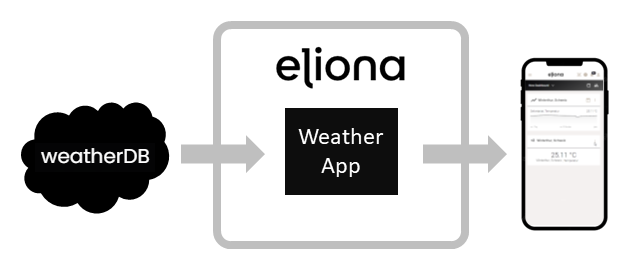
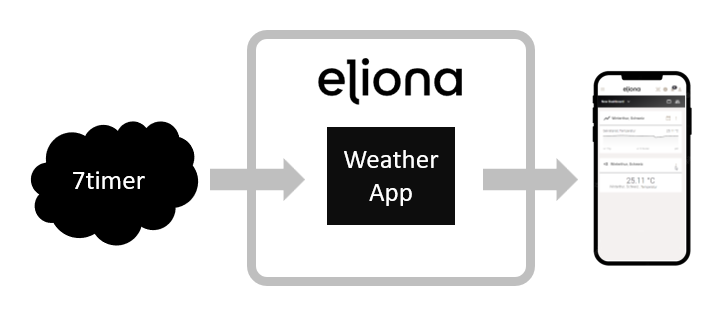
migrate to 7timer!

diff --git a/api/api.go b/api/api.go
@@ -19,8 +19,6 @@ import (
 	"encoding/json"
 	"fmt"
 	"github.com/eliona-smart-building-assistant/go-eliona/http"
-	"strconv"
-	"strings"
 	"time"
 	"weather/conf"
 )
@@ -36,7 +34,7 @@ type Conditions struct {
 }
 
 // Today returns the current weather conditions for the given latitude and longitude.
-func Today(location string) (Conditions, error) {
+func Today(location conf.Location) (Conditions, error) {
 	var conditions Conditions
 
 	// Request the API to get current conditions conditions
@@ -53,18 +51,17 @@ func Today(location string) (Conditions, error) {
 	if ok && status == "fail" {
 		return conditions, fmt.Errorf("error requesting api %s: %s", url, result["message"].(string))
 	}
-	conditions.Temperature, _ = result["currentConditions"].(map[string]interface{})["temp"].(map[string]interface{})["c"].(float64)
-	conditions.Precipitation, _ = strconv.Atoi(strings.Replace(result["currentConditions"].(map[string]interface{})["precip"].(string), "%", "", -1))
-	conditions.Humidity, _ = strconv.Atoi(strings.Replace(result["currentConditions"].(map[string]interface{})["humidity"].(string), "%", "", -1))
-	conditions.Wind, _ = result["currentConditions"].(map[string]interface{})["wind"].(map[string]interface{})["km"].(float64)
-	conditions.Comment, _ = result["currentConditions"].(map[string]interface{})["comment"].(string)
-	conditions.Daytime, _ = result["currentConditions"].(map[string]interface{})["dayhour"].(string)
+	conditions.Temperature, _ = result["dataseries"].([]interface{})[0].(map[string]interface{})["temp2m"].(map[string]interface{})["max"].(float64)
+	conditions.Wind, _ = result["dataseries"].([]interface{})[0].(map[string]interface{})["wind10m_max"].(float64)
+	conditions.Comment, _ = result["dataseries"].([]interface{})[0].(map[string]interface{})["weather"].(string)
+	date, _ := result["dataseries"].([]interface{})[0].(map[string]interface{})["date"].(float64)
+	conditions.Daytime = fmt.Sprintf("%0.0f", date)
 	return conditions, nil
 }
 
 // request calls the api to get structured weather data
-func request(location string) (string, []byte, error) {
-	url := fmt.Sprintf(conf.Endpoint()+"%s", location)
+func request(location conf.Location) (string, []byte, error) {
+	url := fmt.Sprintf(conf.Endpoint()+"&lon=%f&lat=%f", location.Longitude, location.Latitude)
 	request, err := http.NewRequest(url)
 	if err != nil {
 		return url, nil, err

diff --git a/conf/conf.go b/conf/conf.go
@@ -22,13 +22,15 @@ import (
 )
 
 type Location struct {
-	Location string
-	AssetId  int
+	Location  string
+	AssetId   int
+	Latitude  float64
+	Longitude float64
 }
 
 // ReadLocations reads all configured weather locations and send each location to the given channel
 func ReadLocations(locations chan Location) error {
-	return db.Query(db.Pool(), "select location, asset_id from weather.locations", locations)
+	return db.Query(db.Pool(), "select locations.location, locations.asset_id, lat, lon from weather.locations join public.asset using (asset_id)", locations)
 }
 
 // PollingInterval returns the interval polling the weather api
@@ -39,7 +41,7 @@ func PollingInterval() time.Duration {
 
 // Endpoint returns the configured API endpoint to get weather data.
 func Endpoint() string {
-	return get("endpoint", "https://weatherdbi.herokuapp.com/data/weather/")
+	return get("endpoint", "https://www.7timer.info/bin/civillight.php?ac=0&unit=metric&output=json&tzshift=0")
 }
 
 // Value returns the configuration string referenced by key. The configuration is stored in the init
@@ -62,7 +64,7 @@ func Set(name string, value string) error {
 }
 
 func InitConfiguration(connection db.Connection) error {
-	err := Set("endpoint", "https://weatherdbi.herokuapp.com/data/weather/")
+	err := Set("endpoint", "https://www.7timer.info/bin/civillight.php?ac=0&unit=metric&output=json&tzshift=0")
 	if err != nil {
 		return err
 	}

diff --git a/weather/assets.go b/weather/assets.go
@@ -46,9 +46,9 @@ type Status struct {
 func InitAssetType(connection db.Connection) error {
 	err := assets.UpsertAssetType(connection, assets.AssetType{
 		Name:             "weather_location",
-		Vendor:           "weatherDB by Dron Bhattacharya & Rituraj Datta",
+		Vendor:           "7Timer!",
 		Translation:      &assets.Translation{German: "Wetterstandort", English: "Weather location"},
-		DocumentationUrl: "https://weatherdbi.herokuapp.com/documentation/v1",
+		DocumentationUrl: "https://www.7timer.info/doc.php?lang=en#api",
 		Icon:             "weather",
 	})
 	if err != nil {

diff --git a/weather/weather.go b/weather/weather.go
@@ -34,7 +34,7 @@ func CollectData() {
 	for location := range locations {
 
 		// Reads the current weather condition for location
-		condition, err := api.Today(location.Location)
+		condition, err := api.Today(location)
 		if err != nil {
 			log.Error("Weather", "Error during requesting API endpoint: %v", err)
 			return

diff --git a/README.md b/README.md
@@ -1,7 +1,7 @@
 # Weather app
 The [weather app](https://github.com/eliona-smart-building-assistant/weather-app) is an exemplary app build for running within an [eliona](https://www.eliona.io/) environment. Apps like this add new features to eliona like supporting additional sensors or open new communication channels.
 
-This app grabs weather data from [WeatherDB](https://weatherdbi.herokuapp.com/) web service this data to eliona. To do this, you can configure locations for which the weather data is to be read. Within eliona these locations are handled as assets and can be used to show on dashboards, trigger alarms and so on.
+This app grabs weather data from [7timer](https://www.7timer.info/bin/civillight.php?ac=0&unit=metric&output=json&tzshift=0) web service this data to eliona. To do this, you can configure locations for which the weather data is to be read. Within eliona these locations are handled as assets and can be used to show on dashboards, trigger alarms and so on.
 
 [<img src="weather-app.png" width="350"/>](weather-app.png)
 
@@ -39,8 +39,8 @@ In detail, you need the following configuration data in table `weather.configura
 
 ```sql
 -- weather.configuration (name, value)
-('endpoint', 'https://weatherdbi.herokuapp.com/data/weather/') -- where is the weatherDB located
-('polling_interval', '10') -- with interval in seconds is used to poll the weatherDB 
+('endpoint', 'https://www.7timer.info/bin/civillight.php?ac=0&unit=metric&output=json&tzshift=0') -- where is the API located
+('polling_interval', '10') -- with interval in seconds is used to poll the API 
 ```
 
 In order to define the weather locations for which conditions are to be read, an entry in the table `weather.locations (location, asset_id)` is required. The location is the name of the location, e.g. `winterthur,swizerland` or if clearly just `winterthur`. Each location is mapped with an asset in eliona, represented by the `asset_id`.
@@ -54,7 +54,7 @@ Before the locations can be inserted the corresponding asset have to create. The
 
 ## API Reference
 
-The weather app grabs weather conditions from [WeatherDB](https://weatherdbi.herokuapp.com/) web service and writes these data to eliona as heap data of assets. The heap data is separated in `weather.Input`, `weather.Info` and `weather.Status` heaps. These structures are used to write the heap data.
+The weather app grabs weather conditions from [7timer](https://www.7timer.info/bin/civillight.php?ac=0&unit=metric&output=json&tzshift=0) web service and writes these data to eliona as heap data of assets. The heap data is separated in `weather.Input`, `weather.Info` and `weather.Status` heaps. These structures are used to write the heap data.
 
 ```json
 {"wind": 6, "humidity": 97, "temperature": 18, "precipitation": 15} 
